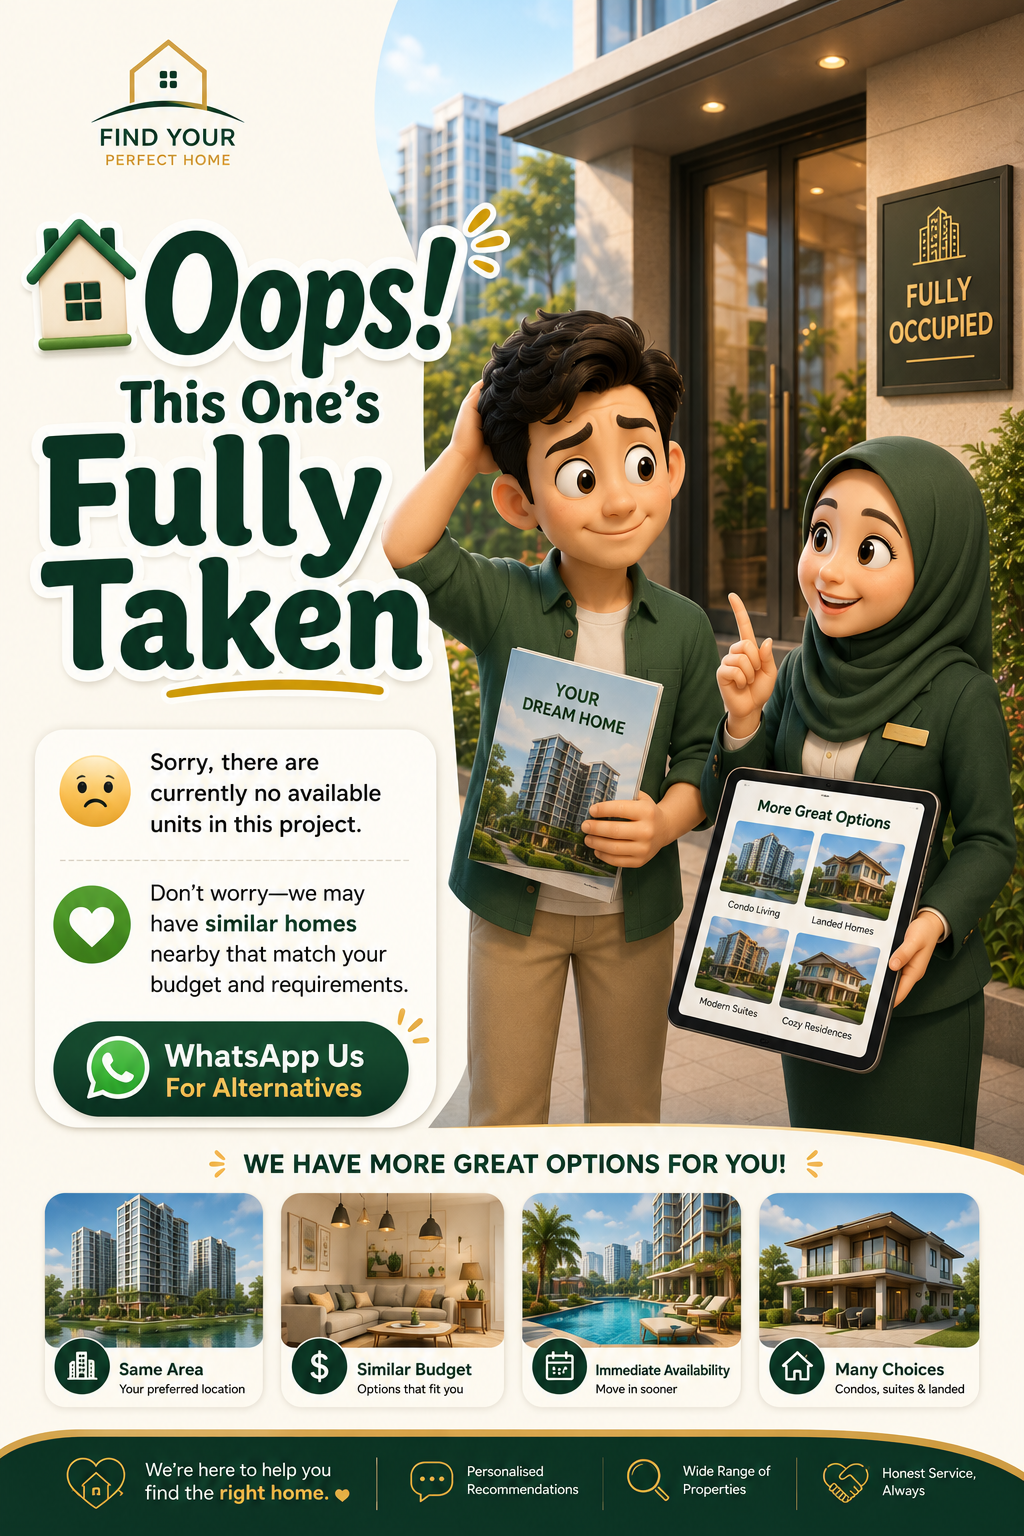
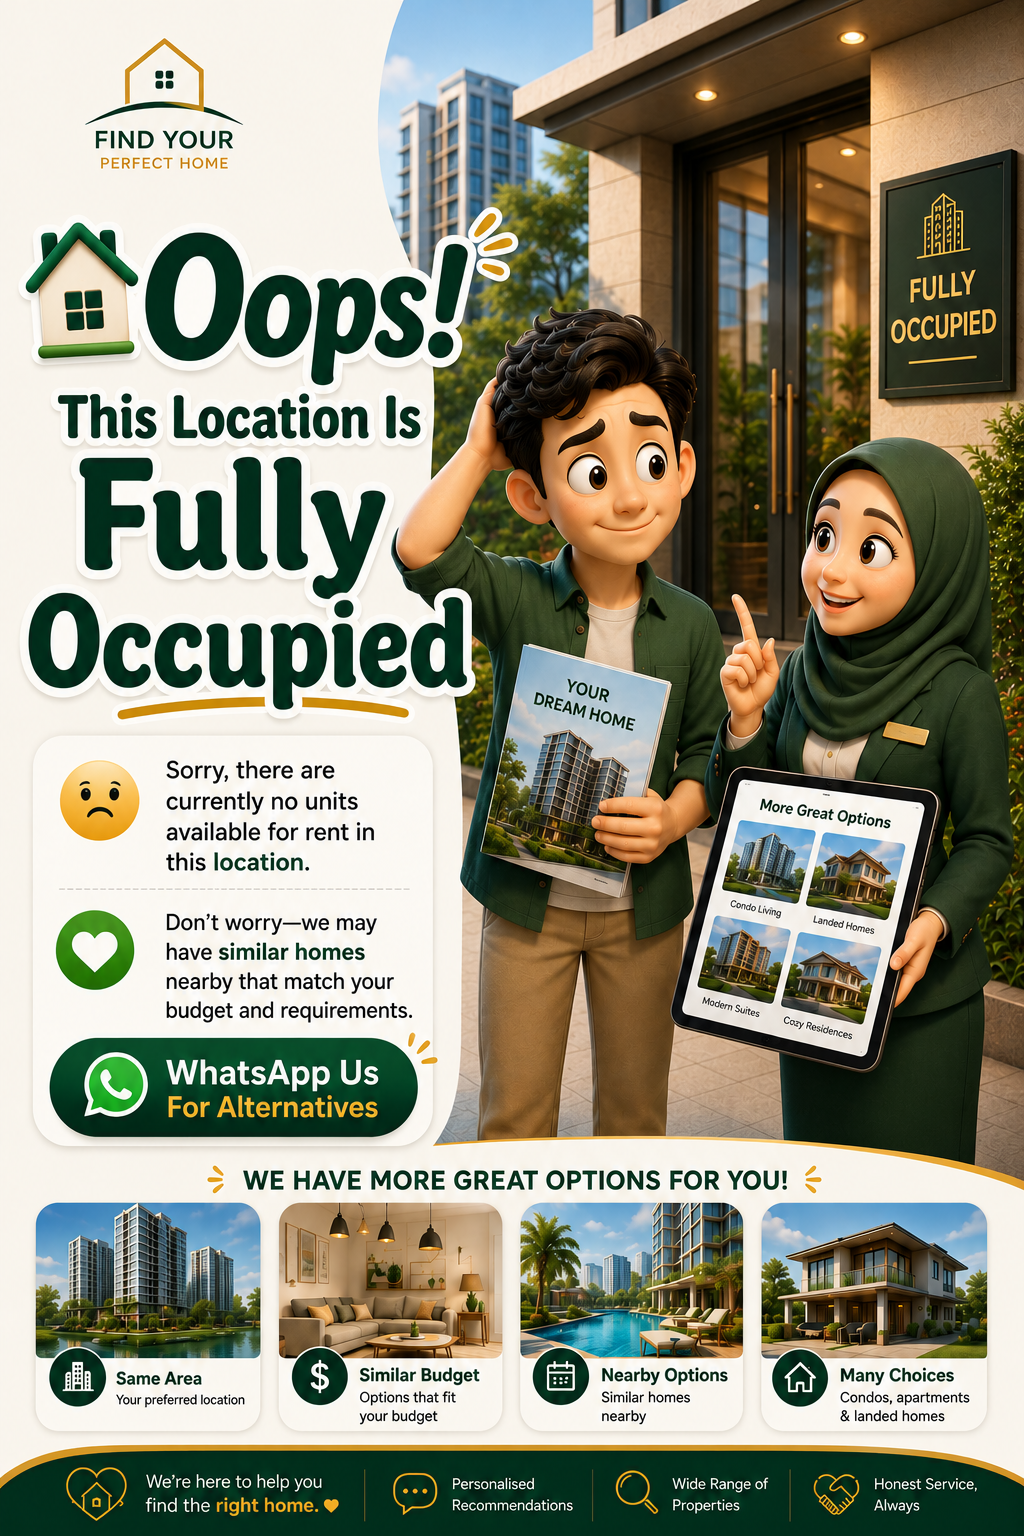
dp

diff --git a/rental/local/kepong/kepong.html b/rental/local/kepong/kepong.html
@@ -301,7 +301,7 @@
 
     <div class="illustration">
       <img
-        src="under.png"
+        src="sorry.png"
         alt="Maintenance in progress"
         onerror="this.style.display='none'; document.querySelector('.illustration-fallback').style.display='flex';"
       />
